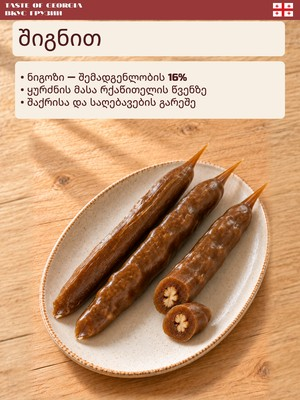
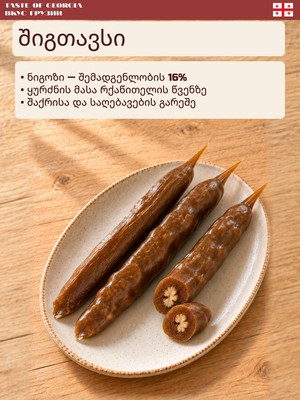
Use approved Georgian filling title on six Taste slides

Changed region(s): [[0.18, 0.06, 0.42, 0.15]]

diff --git a/previews/taste-of-georgia/index.html b/previews/taste-of-georgia/index.html
@@ -1,1 +1,1 @@
-<!doctype html><html lang="ru"><meta charset="utf-8"><meta name="viewport" content="width=device-width,initial-scale=1"><title>Taste of Georgia — RU / KA</title><style>body{margin:24px;background:#f7efe3;color:#4f1d1e;font:18px Georgia,serif}a{color:inherit}.slides{display:flex;gap:12px;overflow-x:auto}img{display:block;border-radius:8px}section{margin:32px 0}h2{font-size:24px}</style><h1>Taste of Georgia</h1><nav><a href="#ru">Русский</a> · <a href="#ka">ქართული · Грузинский</a></nav><p>Слайд «Внутри»: сгенерированная иллюстрация разреза, не фотография реального сечения. Проценты относятся к составу. Новые грузинские строки требуют проверки носителем.</p><h2 id="ru">Русская версия</h2><p>Шесть товаров · 4 слайда.</p><p><a href="ru/photos-links.csv">CSV со ссылками</a> · <a href="ru/contact.jpg">Все слайды JPG</a> · <a href="ru/inside-comparison.jpg">Разрезы JPG</a> · <a href="ru/checks.txt">Проверки каждого слайда</a></p><section><h2>846289106</h2><div class="slides"><a href="../../taste-of-georgia-ru/846289106/slide-1.jpg?v=compact-v1"><img src="ru/846289106/preview-1.jpg?v=compact-v1" width="300" height="400" alt="846289106, слайд 1" loading="lazy"></a><a href="../../taste-of-georgia-ru/846289106/slide-2.jpg?v=compact-v1"><img src="ru/846289106/preview-2.jpg?v=compact-v1" width="300" height="400" alt="846289106, слайд 2" loading="lazy"></a><a href="../../taste-of-georgia-ru/846289106/slide-3.jpg?v=compact-v1"><img src="ru/846289106/preview-3.jpg?v=compact-v1" width="300" height="400" alt="846289106, слайд 3" loading="lazy"></a><a href="../../taste-of-georgia-ru/846289106/slide-4.jpg?v=compact-v1"><img src="ru/846289106/preview-4.jpg?v=compact-v1" width="300" height="400" alt="846289106, слайд 4" loading="lazy"></a></div></section><section><h2>866293107</h2><div class="slides"><a href="../../taste-of-georgia-ru/866293107/slide-1.jpg?v=compact-v1"><img src="ru/866293107/preview-1.jpg?v=compact-v1" width="300" height="400" alt="866293107, слайд 1" loading="lazy"></a><a href="../../taste-of-georgia-ru/866293107/slide-2.jpg?v=compact-v1"><img src="ru/866293107/preview-2.jpg?v=compact-v1" width="300" height="400" alt="866293107, слайд 2" loading="lazy"></a><a href="../../taste-of-georgia-ru/866293107/slide-3.jpg?v=compact-v1"><img src="ru/866293107/preview-3.jpg?v=compact-v1" width="300" height="400" alt="866293107, слайд 3" loading="lazy"></a><a href="../../taste-of-georgia-ru/866293107/slide-4.jpg?v=compact-v1"><img src="ru/866293107/preview-4.jpg?v=compact-v1" width="300" height="400" alt="866293107, слайд 4" loading="lazy"></a></div></section><section><h2>866378086</h2><div class="slides"><a href="../../taste-of-georgia-ru/866378086/slide-1.jpg?v=compact-v1"><img src="ru/866378086/preview-1.jpg?v=compact-v1" width="300" height="400" alt="866378086, слайд 1" loading="lazy"></a><a href="../../taste-of-georgia-ru/866378086/slide-2.jpg?v=compact-v1"><img src="ru/866378086/preview-2.jpg?v=compact-v1" width="300" height="400" alt="866378086, слайд 2" loading="lazy"></a><a href="../../taste-of-georgia-ru/866378086/slide-3.jpg?v=compact-v1"><img src="ru/866378086/preview-3.jpg?v=compact-v1" width="300" height="400" alt="866378086, слайд 3" loading="lazy"></a><a href="../../taste-of-georgia-ru/866378086/slide-4.jpg?v=compact-v1"><img src="ru/866378086/preview-4.jpg?v=compact-v1" width="300" height="400" alt="866378086, слайд 4" loading="lazy"></a></div></section><section><h2>866183920</h2><div class="slides"><a href="../../taste-of-georgia-ru/866183920/slide-1.jpg?v=compact-v1"><img src="ru/866183920/preview-1.jpg?v=compact-v1" width="300" height="400" alt="866183920, слайд 1" loading="lazy"></a><a href="../../taste-of-georgia-ru/866183920/slide-2.jpg?v=compact-v1"><img src="ru/866183920/preview-2.jpg?v=compact-v1" width="300" height="400" alt="866183920, слайд 2" loading="lazy"></a><a href="../../taste-of-georgia-ru/866183920/slide-3.jpg?v=compact-v1"><img src="ru/866183920/preview-3.jpg?v=compact-v1" width="300" height="400" alt="866183920, слайд 3" loading="lazy"></a><a href="../../taste-of-georgia-ru/866183920/slide-4.jpg?v=compact-v1"><img src="ru/866183920/preview-4.jpg?v=compact-v1" width="300" height="400" alt="866183920, слайд 4" loading="lazy"></a></div></section><section><h2>866266850</h2><div class="slides"><a href="../../taste-of-georgia-ru/866266850/slide-1.jpg?v=compact-v1"><img src="ru/866266850/preview-1.jpg?v=compact-v1" width="300" height="400" alt="866266850, слайд 1" loading="lazy"></a><a href="../../taste-of-georgia-ru/866266850/slide-2.jpg?v=compact-v1"><img src="ru/866266850/preview-2.jpg?v=compact-v1" width="300" height="400" alt="866266850, слайд 2" loading="lazy"></a><a href="../../taste-of-georgia-ru/866266850/slide-3.jpg?v=compact-v1"><img src="ru/866266850/preview-3.jpg?v=compact-v1" width="300" height="400" alt="866266850, слайд 3" loading="lazy"></a><a href="../../taste-of-georgia-ru/866266850/slide-4.jpg?v=compact-v1"><img src="ru/866266850/preview-4.jpg?v=compact-v1" width="300" height="400" alt="866266850, слайд 4" loading="lazy"></a></div></section><section><h2>866217539</h2><div class="slides"><a href="../../taste-of-georgia-ru/866217539/slide-1.jpg?v=compact-v1"><img src="ru/866217539/preview-1.jpg?v=compact-v1" width="300" height="400" alt="866217539, слайд 1" loading="lazy"></a><a href="../../taste-of-georgia-ru/866217539/slide-2.jpg?v=compact-v1"><img src="ru/866217539/preview-2.jpg?v=compact-v1" width="300" height="400" alt="866217539, слайд 2" loading="lazy"></a><a href="../../taste-of-georgia-ru/866217539/slide-3.jpg?v=compact-v1"><img src="ru/866217539/preview-3.jpg?v=compact-v1" width="300" height="400" alt="866217539, слайд 3" loading="lazy"></a><a href="../../taste-of-georgia-ru/866217539/slide-4.jpg?v=compact-v1"><img src="ru/866217539/preview-4.jpg?v=compact-v1" width="300" height="400" alt="866217539, слайд 4" loading="lazy"></a></div></section><h2 id="ka">ქართული · Грузинская версия</h2><p>Шесть товаров · 4 слайда.</p><p><a href="photos-links.csv">CSV со ссылками</a> · <a href="contact.jpg">Все слайды JPG</a> · <a href="inside-comparison.jpg">Разрезы JPG</a> · <a href="checks.txt">Проверки каждого слайда</a></p><section><h2>846289106</h2><div class="slides"><a href="../../taste-of-georgia/846289106/slide-1.jpg?v=compact-v1"><img src="846289106/preview-1.jpg?v=compact-v1" width="300" height="400" alt="846289106, слайд 1" loading="lazy"></a><a href="../../taste-of-georgia/846289106/slide-2.jpg?v=compact-v1"><img src="846289106/preview-2.jpg?v=compact-v1" width="300" height="400" alt="846289106, слайд 2" loading="lazy"></a><a href="../../taste-of-georgia/846289106/slide-3.jpg?v=compact-v1"><img src="846289106/preview-3.jpg?v=compact-v1" width="300" height="400" alt="846289106, слайд 3" loading="lazy"></a><a href="../../taste-of-georgia/846289106/slide-4.jpg?v=compact-v1"><img src="846289106/preview-4.jpg?v=compact-v1" width="300" height="400" alt="846289106, слайд 4" loading="lazy"></a></div></section><section><h2>866293107</h2><div class="slides"><a href="../../taste-of-georgia/866293107/slide-1.jpg?v=compact-v1"><img src="866293107/preview-1.jpg?v=compact-v1" width="300" height="400" alt="866293107, слайд 1" loading="lazy"></a><a href="../../taste-of-georgia/866293107/slide-2.jpg?v=compact-v1"><img src="866293107/preview-2.jpg?v=compact-v1" width="300" height="400" alt="866293107, слайд 2" loading="lazy"></a><a href="../../taste-of-georgia/866293107/slide-3.jpg?v=compact-v1"><img src="866293107/preview-3.jpg?v=compact-v1" width="300" height="400" alt="866293107, слайд 3" loading="lazy"></a><a href="../../taste-of-georgia/866293107/slide-4.jpg?v=compact-v1"><img src="866293107/preview-4.jpg?v=compact-v1" width="300" height="400" alt="866293107, слайд 4" loading="lazy"></a></div></section><section><h2>866378086</h2><div class="slides"><a href="../../taste-of-georgia/866378086/slide-1.jpg?v=compact-v1"><img src="866378086/preview-1.jpg?v=compact-v1" width="300" height="400" alt="866378086, слайд 1" loading="lazy"></a><a href="../../taste-of-georgia/866378086/slide-2.jpg?v=compact-v1"><img src="866378086/preview-2.jpg?v=compact-v1" width="300" height="400" alt="866378086, слайд 2" loading="lazy"></a><a href="../../taste-of-georgia/866378086/slide-3.jpg?v=compact-v1"><img src="866378086/preview-3.jpg?v=compact-v1" width="300" height="400" alt="866378086, слайд 3" loading="lazy"></a><a href="../../taste-of-georgia/866378086/slide-4.jpg?v=compact-v1"><img src="866378086/preview-4.jpg?v=compact-v1" width="300" height="400" alt="866378086, слайд 4" loading="lazy"></a></div></section><section><h2>866183920</h2><div class="slides"><a href="../../taste-of-georgia/866183920/slide-1.jpg?v=compact-v1"><img src="866183920/preview-1.jpg?v=compact-v1" width="300" height="400" alt="866183920, слайд 1" loading="lazy"></a><a href="../../taste-of-georgia/866183920/slide-2.jpg?v=compact-v1"><img src="866183920/preview-2.jpg?v=compact-v1" width="300" height="400" alt="866183920, слайд 2" loading="lazy"></a><a href="../../taste-of-georgia/866183920/slide-3.jpg?v=compact-v1"><img src="866183920/preview-3.jpg?v=compact-v1" width="300" height="400" alt="866183920, слайд 3" loading="lazy"></a><a href="../../taste-of-georgia/866183920/slide-4.jpg?v=compact-v1"><img src="866183920/preview-4.jpg?v=compact-v1" width="300" height="400" alt="866183920, слайд 4" loading="lazy"></a></div></section><section><h2>866266850</h2><div class="slides"><a href="../../taste-of-georgia/866266850/slide-1.jpg?v=compact-v1"><img src="866266850/preview-1.jpg?v=compact-v1" width="300" height="400" alt="866266850, слайд 1" loading="lazy"></a><a href="../../taste-of-georgia/866266850/slide-2.jpg?v=compact-v1"><img src="866266850/preview-2.jpg?v=compact-v1" width="300" height="400" alt="866266850, слайд 2" loading="lazy"></a><a href="../../taste-of-georgia/866266850/slide-3.jpg?v=compact-v1"><img src="866266850/preview-3.jpg?v=compact-v1" width="300" height="400" alt="866266850, слайд 3" loading="lazy"></a><a href="../../taste-of-georgia/866266850/slide-4.jpg?v=compact-v1"><img src="866266850/preview-4.jpg?v=compact-v1" width="300" height="400" alt="866266850, слайд 4" loading="lazy"></a></div></section><section><h2>866217539</h2><div class="slides"><a href="../../taste-of-georgia/866217539/slide-1.jpg?v=compact-v1"><img src="866217539/preview-1.jpg?v=compact-v1" width="300" height="400" alt="866217539, слайд 1" loading="lazy"></a><a href="../../taste-of-georgia/866217539/slide-2.jpg?v=compact-v1"><img src="866217539/preview-2.jpg?v=compact-v1" width="300" height="400" alt="866217539, слайд 2" loading="lazy"></a><a href="../../taste-of-georgia/866217539/slide-3.jpg?v=compact-v1"><img src="866217539/preview-3.jpg?v=compact-v1" width="300" height="400" alt="866217539, слайд 3" loading="lazy"></a><a href="../../taste-of-georgia/866217539/slide-4.jpg?v=compact-v1"><img src="866217539/preview-4.jpg?v=compact-v1" width="300" height="400" alt="866217539, слайд 4" loading="lazy"></a></div></section></html>
+<!doctype html><html lang="ru"><meta charset="utf-8"><meta name="viewport" content="width=device-width,initial-scale=1"><title>Taste of Georgia — RU / KA</title><style>body{margin:24px;background:#f7efe3;color:#4f1d1e;font:18px Georgia,serif}a{color:inherit}.slides{display:flex;gap:12px;overflow-x:auto}img{display:block;border-radius:8px}section{margin:32px 0}h2{font-size:24px}</style><h1>Taste of Georgia</h1><nav><a href="#ru">Русский</a> · <a href="#ka">ქართული · Грузинский</a></nav><p>Слайд «Внутри»: сгенерированная иллюстрация разреза, не фотография реального сечения. Проценты относятся к составу. Грузинский перевод одобрен Давидом; заголовок среза — «შიგთავსი».</p><h2 id="ru">Русская версия</h2><p>Шесть товаров · 4 слайда.</p><p><a href="ru/photos-links.csv">CSV со ссылками</a> · <a href="ru/contact.jpg">Все слайды JPG</a> · <a href="ru/inside-comparison.jpg">Разрезы JPG</a> · <a href="ru/checks.txt">Проверки каждого слайда</a></p><section><h2>846289106</h2><div class="slides"><a href="../../taste-of-georgia-ru/846289106/slide-1.jpg?v=compact-v1"><img src="ru/846289106/preview-1.jpg?v=compact-v1" width="300" height="400" alt="846289106, слайд 1" loading="lazy"></a><a href="../../taste-of-georgia-ru/846289106/slide-2.jpg?v=compact-v1"><img src="ru/846289106/preview-2.jpg?v=compact-v1" width="300" height="400" alt="846289106, слайд 2" loading="lazy"></a><a href="../../taste-of-georgia-ru/846289106/slide-3.jpg?v=compact-v1"><img src="ru/846289106/preview-3.jpg?v=compact-v1" width="300" height="400" alt="846289106, слайд 3" loading="lazy"></a><a href="../../taste-of-georgia-ru/846289106/slide-4.jpg?v=compact-v1"><img src="ru/846289106/preview-4.jpg?v=compact-v1" width="300" height="400" alt="846289106, слайд 4" loading="lazy"></a></div></section><section><h2>866293107</h2><div class="slides"><a href="../../taste-of-georgia-ru/866293107/slide-1.jpg?v=compact-v1"><img src="ru/866293107/preview-1.jpg?v=compact-v1" width="300" height="400" alt="866293107, слайд 1" loading="lazy"></a><a href="../../taste-of-georgia-ru/866293107/slide-2.jpg?v=compact-v1"><img src="ru/866293107/preview-2.jpg?v=compact-v1" width="300" height="400" alt="866293107, слайд 2" loading="lazy"></a><a href="../../taste-of-georgia-ru/866293107/slide-3.jpg?v=compact-v1"><img src="ru/866293107/preview-3.jpg?v=compact-v1" width="300" height="400" alt="866293107, слайд 3" loading="lazy"></a><a href="../../taste-of-georgia-ru/866293107/slide-4.jpg?v=compact-v1"><img src="ru/866293107/preview-4.jpg?v=compact-v1" width="300" height="400" alt="866293107, слайд 4" loading="lazy"></a></div></section><section><h2>866378086</h2><div class="slides"><a href="../../taste-of-georgia-ru/866378086/slide-1.jpg?v=compact-v1"><img src="ru/866378086/preview-1.jpg?v=compact-v1" width="300" height="400" alt="866378086, слайд 1" loading="lazy"></a><a href="../../taste-of-georgia-ru/866378086/slide-2.jpg?v=compact-v1"><img src="ru/866378086/preview-2.jpg?v=compact-v1" width="300" height="400" alt="866378086, слайд 2" loading="lazy"></a><a href="../../taste-of-georgia-ru/866378086/slide-3.jpg?v=compact-v1"><img src="ru/866378086/preview-3.jpg?v=compact-v1" width="300" height="400" alt="866378086, слайд 3" loading="lazy"></a><a href="../../taste-of-georgia-ru/866378086/slide-4.jpg?v=compact-v1"><img src="ru/866378086/preview-4.jpg?v=compact-v1" width="300" height="400" alt="866378086, слайд 4" loading="lazy"></a></div></section><section><h2>866183920</h2><div class="slides"><a href="../../taste-of-georgia-ru/866183920/slide-1.jpg?v=compact-v1"><img src="ru/866183920/preview-1.jpg?v=compact-v1" width="300" height="400" alt="866183920, слайд 1" loading="lazy"></a><a href="../../taste-of-georgia-ru/866183920/slide-2.jpg?v=compact-v1"><img src="ru/866183920/preview-2.jpg?v=compact-v1" width="300" height="400" alt="866183920, слайд 2" loading="lazy"></a><a href="../../taste-of-georgia-ru/866183920/slide-3.jpg?v=compact-v1"><img src="ru/866183920/preview-3.jpg?v=compact-v1" width="300" height="400" alt="866183920, слайд 3" loading="lazy"></a><a href="../../taste-of-georgia-ru/866183920/slide-4.jpg?v=compact-v1"><img src="ru/866183920/preview-4.jpg?v=compact-v1" width="300" height="400" alt="866183920, слайд 4" loading="lazy"></a></div></section><section><h2>866266850</h2><div class="slides"><a href="../../taste-of-georgia-ru/866266850/slide-1.jpg?v=compact-v1"><img src="ru/866266850/preview-1.jpg?v=compact-v1" width="300" height="400" alt="866266850, слайд 1" loading="lazy"></a><a href="../../taste-of-georgia-ru/866266850/slide-2.jpg?v=compact-v1"><img src="ru/866266850/preview-2.jpg?v=compact-v1" width="300" height="400" alt="866266850, слайд 2" loading="lazy"></a><a href="../../taste-of-georgia-ru/866266850/slide-3.jpg?v=compact-v1"><img src="ru/866266850/preview-3.jpg?v=compact-v1" width="300" height="400" alt="866266850, слайд 3" loading="lazy"></a><a href="../../taste-of-georgia-ru/866266850/slide-4.jpg?v=compact-v1"><img src="ru/866266850/preview-4.jpg?v=compact-v1" width="300" height="400" alt="866266850, слайд 4" loading="lazy"></a></div></section><section><h2>866217539</h2><div class="slides"><a href="../../taste-of-georgia-ru/866217539/slide-1.jpg?v=compact-v1"><img src="ru/866217539/preview-1.jpg?v=compact-v1" width="300" height="400" alt="866217539, слайд 1" loading="lazy"></a><a href="../../taste-of-georgia-ru/866217539/slide-2.jpg?v=compact-v1"><img src="ru/866217539/preview-2.jpg?v=compact-v1" width="300" height="400" alt="866217539, слайд 2" loading="lazy"></a><a href="../../taste-of-georgia-ru/866217539/slide-3.jpg?v=compact-v1"><img src="ru/866217539/preview-3.jpg?v=compact-v1" width="300" height="400" alt="866217539, слайд 3" loading="lazy"></a><a href="../../taste-of-georgia-ru/866217539/slide-4.jpg?v=compact-v1"><img src="ru/866217539/preview-4.jpg?v=compact-v1" width="300" height="400" alt="866217539, слайд 4" loading="lazy"></a></div></section><h2 id="ka">ქართული · Грузинская версия</h2><p>Шесть товаров · 4 слайда.</p><p><a href="photos-links.csv">CSV со ссылками</a> · <a href="contact.jpg">Все слайды JPG</a> · <a href="inside-comparison.jpg">Разрезы JPG</a> · <a href="checks.txt">Проверки каждого слайда</a></p><section><h2>846289106</h2><div class="slides"><a href="../../taste-of-georgia/846289106/slide-1.jpg?v=compact-ka-title-v1"><img src="846289106/preview-1.jpg?v=compact-ka-title-v1" width="300" height="400" alt="846289106, слайд 1" loading="lazy"></a><a href="../../taste-of-georgia/846289106/slide-2.jpg?v=compact-ka-title-v1"><img src="846289106/preview-2.jpg?v=compact-ka-title-v1" width="300" height="400" alt="846289106, слайд 2" loading="lazy"></a><a href="../../taste-of-georgia/846289106/slide-3.jpg?v=compact-ka-title-v1"><img src="846289106/preview-3.jpg?v=compact-ka-title-v1" width="300" height="400" alt="846289106, слайд 3" loading="lazy"></a><a href="../../taste-of-georgia/846289106/slide-4.jpg?v=compact-ka-title-v1"><img src="846289106/preview-4.jpg?v=compact-ka-title-v1" width="300" height="400" alt="846289106, слайд 4" loading="lazy"></a></div></section><section><h2>866293107</h2><div class="slides"><a href="../../taste-of-georgia/866293107/slide-1.jpg?v=compact-ka-title-v1"><img src="866293107/preview-1.jpg?v=compact-ka-title-v1" width="300" height="400" alt="866293107, слайд 1" loading="lazy"></a><a href="../../taste-of-georgia/866293107/slide-2.jpg?v=compact-ka-title-v1"><img src="866293107/preview-2.jpg?v=compact-ka-title-v1" width="300" height="400" alt="866293107, слайд 2" loading="lazy"></a><a href="../../taste-of-georgia/866293107/slide-3.jpg?v=compact-ka-title-v1"><img src="866293107/preview-3.jpg?v=compact-ka-title-v1" width="300" height="400" alt="866293107, слайд 3" loading="lazy"></a><a href="../../taste-of-georgia/866293107/slide-4.jpg?v=compact-ka-title-v1"><img src="866293107/preview-4.jpg?v=compact-ka-title-v1" width="300" height="400" alt="866293107, слайд 4" loading="lazy"></a></div></section><section><h2>866378086</h2><div class="slides"><a href="../../taste-of-georgia/866378086/slide-1.jpg?v=compact-ka-title-v1"><img src="866378086/preview-1.jpg?v=compact-ka-title-v1" width="300" height="400" alt="866378086, слайд 1" loading="lazy"></a><a href="../../taste-of-georgia/866378086/slide-2.jpg?v=compact-ka-title-v1"><img src="866378086/preview-2.jpg?v=compact-ka-title-v1" width="300" height="400" alt="866378086, слайд 2" loading="lazy"></a><a href="../../taste-of-georgia/866378086/slide-3.jpg?v=compact-ka-title-v1"><img src="866378086/preview-3.jpg?v=compact-ka-title-v1" width="300" height="400" alt="866378086, слайд 3" loading="lazy"></a><a href="../../taste-of-georgia/866378086/slide-4.jpg?v=compact-ka-title-v1"><img src="866378086/preview-4.jpg?v=compact-ka-title-v1" width="300" height="400" alt="866378086, слайд 4" loading="lazy"></a></div></section><section><h2>866183920</h2><div class="slides"><a href="../../taste-of-georgia/866183920/slide-1.jpg?v=compact-ka-title-v1"><img src="866183920/preview-1.jpg?v=compact-ka-title-v1" width="300" height="400" alt="866183920, слайд 1" loading="lazy"></a><a href="../../taste-of-georgia/866183920/slide-2.jpg?v=compact-ka-title-v1"><img src="866183920/preview-2.jpg?v=compact-ka-title-v1" width="300" height="400" alt="866183920, слайд 2" loading="lazy"></a><a href="../../taste-of-georgia/866183920/slide-3.jpg?v=compact-ka-title-v1"><img src="866183920/preview-3.jpg?v=compact-ka-title-v1" width="300" height="400" alt="866183920, слайд 3" loading="lazy"></a><a href="../../taste-of-georgia/866183920/slide-4.jpg?v=compact-ka-title-v1"><img src="866183920/preview-4.jpg?v=compact-ka-title-v1" width="300" height="400" alt="866183920, слайд 4" loading="lazy"></a></div></section><section><h2>866266850</h2><div class="slides"><a href="../../taste-of-georgia/866266850/slide-1.jpg?v=compact-ka-title-v1"><img src="866266850/preview-1.jpg?v=compact-ka-title-v1" width="300" height="400" alt="866266850, слайд 1" loading="lazy"></a><a href="../../taste-of-georgia/866266850/slide-2.jpg?v=compact-ka-title-v1"><img src="866266850/preview-2.jpg?v=compact-ka-title-v1" width="300" height="400" alt="866266850, слайд 2" loading="lazy"></a><a href="../../taste-of-georgia/866266850/slide-3.jpg?v=compact-ka-title-v1"><img src="866266850/preview-3.jpg?v=compact-ka-title-v1" width="300" height="400" alt="866266850, слайд 3" loading="lazy"></a><a href="../../taste-of-georgia/866266850/slide-4.jpg?v=compact-ka-title-v1"><img src="866266850/preview-4.jpg?v=compact-ka-title-v1" width="300" height="400" alt="866266850, слайд 4" loading="lazy"></a></div></section><section><h2>866217539</h2><div class="slides"><a href="../../taste-of-georgia/866217539/slide-1.jpg?v=compact-ka-title-v1"><img src="866217539/preview-1.jpg?v=compact-ka-title-v1" width="300" height="400" alt="866217539, слайд 1" loading="lazy"></a><a href="../../taste-of-georgia/866217539/slide-2.jpg?v=compact-ka-title-v1"><img src="866217539/preview-2.jpg?v=compact-ka-title-v1" width="300" height="400" alt="866217539, слайд 2" loading="lazy"></a><a href="../../taste-of-georgia/866217539/slide-3.jpg?v=compact-ka-title-v1"><img src="866217539/preview-3.jpg?v=compact-ka-title-v1" width="300" height="400" alt="866217539, слайд 3" loading="lazy"></a><a href="../../taste-of-georgia/866217539/slide-4.jpg?v=compact-ka-title-v1"><img src="866217539/preview-4.jpg?v=compact-ka-title-v1" width="300" height="400" alt="866217539, слайд 4" loading="lazy"></a></div></section></html>

diff --git a/previews/taste-of-georgia/ru/index.html b/previews/taste-of-georgia/ru/index.html
@@ -1,1 +1,1 @@
-<!doctype html><html lang="ru"><meta charset="utf-8"><meta name="viewport" content="width=device-width,initial-scale=1"><title>Taste of Georgia — русский</title><style>body{margin:24px;background:#f7efe3;color:#4f1d1e;font:18px Georgia,serif}a{color:inherit}.slides{display:flex;gap:12px;overflow-x:auto}img{display:block;border-radius:8px}section{margin:32px 0}h2{font-size:24px}</style><h1>Taste of Georgia — русский</h1><p>Слайд «Внутри»: сгенерированная иллюстрация разреза, не фотография реального сечения. Проценты относятся к составу. Новые грузинские строки требуют проверки носителем.</p><h2 id="ru">Русская версия</h2><p>Шесть товаров · 4 слайда.</p><p><a href="photos-links.csv">CSV со ссылками</a> · <a href="contact.jpg">Все слайды JPG</a> · <a href="inside-comparison.jpg">Разрезы JPG</a> · <a href="checks.txt">Проверки каждого слайда</a></p><p><a href="../#ka">Грузинская версия</a></p><section><h2>846289106</h2><div class="slides"><a href="../../../taste-of-georgia-ru/846289106/slide-1.jpg?v=compact-v1"><img src="846289106/preview-1.jpg?v=compact-v1" width="300" height="400" alt="846289106, слайд 1" loading="lazy"></a><a href="../../../taste-of-georgia-ru/846289106/slide-2.jpg?v=compact-v1"><img src="846289106/preview-2.jpg?v=compact-v1" width="300" height="400" alt="846289106, слайд 2" loading="lazy"></a><a href="../../../taste-of-georgia-ru/846289106/slide-3.jpg?v=compact-v1"><img src="846289106/preview-3.jpg?v=compact-v1" width="300" height="400" alt="846289106, слайд 3" loading="lazy"></a><a href="../../../taste-of-georgia-ru/846289106/slide-4.jpg?v=compact-v1"><img src="846289106/preview-4.jpg?v=compact-v1" width="300" height="400" alt="846289106, слайд 4" loading="lazy"></a></div></section><section><h2>866293107</h2><div class="slides"><a href="../../../taste-of-georgia-ru/866293107/slide-1.jpg?v=compact-v1"><img src="866293107/preview-1.jpg?v=compact-v1" width="300" height="400" alt="866293107, слайд 1" loading="lazy"></a><a href="../../../taste-of-georgia-ru/866293107/slide-2.jpg?v=compact-v1"><img src="866293107/preview-2.jpg?v=compact-v1" width="300" height="400" alt="866293107, слайд 2" loading="lazy"></a><a href="../../../taste-of-georgia-ru/866293107/slide-3.jpg?v=compact-v1"><img src="866293107/preview-3.jpg?v=compact-v1" width="300" height="400" alt="866293107, слайд 3" loading="lazy"></a><a href="../../../taste-of-georgia-ru/866293107/slide-4.jpg?v=compact-v1"><img src="866293107/preview-4.jpg?v=compact-v1" width="300" height="400" alt="866293107, слайд 4" loading="lazy"></a></div></section><section><h2>866378086</h2><div class="slides"><a href="../../../taste-of-georgia-ru/866378086/slide-1.jpg?v=compact-v1"><img src="866378086/preview-1.jpg?v=compact-v1" width="300" height="400" alt="866378086, слайд 1" loading="lazy"></a><a href="../../../taste-of-georgia-ru/866378086/slide-2.jpg?v=compact-v1"><img src="866378086/preview-2.jpg?v=compact-v1" width="300" height="400" alt="866378086, слайд 2" loading="lazy"></a><a href="../../../taste-of-georgia-ru/866378086/slide-3.jpg?v=compact-v1"><img src="866378086/preview-3.jpg?v=compact-v1" width="300" height="400" alt="866378086, слайд 3" loading="lazy"></a><a href="../../../taste-of-georgia-ru/866378086/slide-4.jpg?v=compact-v1"><img src="866378086/preview-4.jpg?v=compact-v1" width="300" height="400" alt="866378086, слайд 4" loading="lazy"></a></div></section><section><h2>866183920</h2><div class="slides"><a href="../../../taste-of-georgia-ru/866183920/slide-1.jpg?v=compact-v1"><img src="866183920/preview-1.jpg?v=compact-v1" width="300" height="400" alt="866183920, слайд 1" loading="lazy"></a><a href="../../../taste-of-georgia-ru/866183920/slide-2.jpg?v=compact-v1"><img src="866183920/preview-2.jpg?v=compact-v1" width="300" height="400" alt="866183920, слайд 2" loading="lazy"></a><a href="../../../taste-of-georgia-ru/866183920/slide-3.jpg?v=compact-v1"><img src="866183920/preview-3.jpg?v=compact-v1" width="300" height="400" alt="866183920, слайд 3" loading="lazy"></a><a href="../../../taste-of-georgia-ru/866183920/slide-4.jpg?v=compact-v1"><img src="866183920/preview-4.jpg?v=compact-v1" width="300" height="400" alt="866183920, слайд 4" loading="lazy"></a></div></section><section><h2>866266850</h2><div class="slides"><a href="../../../taste-of-georgia-ru/866266850/slide-1.jpg?v=compact-v1"><img src="866266850/preview-1.jpg?v=compact-v1" width="300" height="400" alt="866266850, слайд 1" loading="lazy"></a><a href="../../../taste-of-georgia-ru/866266850/slide-2.jpg?v=compact-v1"><img src="866266850/preview-2.jpg?v=compact-v1" width="300" height="400" alt="866266850, слайд 2" loading="lazy"></a><a href="../../../taste-of-georgia-ru/866266850/slide-3.jpg?v=compact-v1"><img src="866266850/preview-3.jpg?v=compact-v1" width="300" height="400" alt="866266850, слайд 3" loading="lazy"></a><a href="../../../taste-of-georgia-ru/866266850/slide-4.jpg?v=compact-v1"><img src="866266850/preview-4.jpg?v=compact-v1" width="300" height="400" alt="866266850, слайд 4" loading="lazy"></a></div></section><section><h2>866217539</h2><div class="slides"><a href="../../../taste-of-georgia-ru/866217539/slide-1.jpg?v=compact-v1"><img src="866217539/preview-1.jpg?v=compact-v1" width="300" height="400" alt="866217539, слайд 1" loading="lazy"></a><a href="../../../taste-of-georgia-ru/866217539/slide-2.jpg?v=compact-v1"><img src="866217539/preview-2.jpg?v=compact-v1" width="300" height="400" alt="866217539, слайд 2" loading="lazy"></a><a href="../../../taste-of-georgia-ru/866217539/slide-3.jpg?v=compact-v1"><img src="866217539/preview-3.jpg?v=compact-v1" width="300" height="400" alt="866217539, слайд 3" loading="lazy"></a><a href="../../../taste-of-georgia-ru/866217539/slide-4.jpg?v=compact-v1"><img src="866217539/preview-4.jpg?v=compact-v1" width="300" height="400" alt="866217539, слайд 4" loading="lazy"></a></div></section></html>
+<!doctype html><html lang="ru"><meta charset="utf-8"><meta name="viewport" content="width=device-width,initial-scale=1"><title>Taste of Georgia — русский</title><style>body{margin:24px;background:#f7efe3;color:#4f1d1e;font:18px Georgia,serif}a{color:inherit}.slides{display:flex;gap:12px;overflow-x:auto}img{display:block;border-radius:8px}section{margin:32px 0}h2{font-size:24px}</style><h1>Taste of Georgia — русский</h1><p>Слайд «Внутри»: сгенерированная иллюстрация разреза, не фотография реального сечения. Проценты относятся к составу. Грузинский перевод одобрен Давидом; заголовок среза — «შიგთავსი».</p><h2 id="ru">Русская версия</h2><p>Шесть товаров · 4 слайда.</p><p><a href="photos-links.csv">CSV со ссылками</a> · <a href="contact.jpg">Все слайды JPG</a> · <a href="inside-comparison.jpg">Разрезы JPG</a> · <a href="checks.txt">Проверки каждого слайда</a></p><p><a href="../#ka">Грузинская версия</a></p><section><h2>846289106</h2><div class="slides"><a href="../../../taste-of-georgia-ru/846289106/slide-1.jpg?v=compact-v1"><img src="846289106/preview-1.jpg?v=compact-v1" width="300" height="400" alt="846289106, слайд 1" loading="lazy"></a><a href="../../../taste-of-georgia-ru/846289106/slide-2.jpg?v=compact-v1"><img src="846289106/preview-2.jpg?v=compact-v1" width="300" height="400" alt="846289106, слайд 2" loading="lazy"></a><a href="../../../taste-of-georgia-ru/846289106/slide-3.jpg?v=compact-v1"><img src="846289106/preview-3.jpg?v=compact-v1" width="300" height="400" alt="846289106, слайд 3" loading="lazy"></a><a href="../../../taste-of-georgia-ru/846289106/slide-4.jpg?v=compact-v1"><img src="846289106/preview-4.jpg?v=compact-v1" width="300" height="400" alt="846289106, слайд 4" loading="lazy"></a></div></section><section><h2>866293107</h2><div class="slides"><a href="../../../taste-of-georgia-ru/866293107/slide-1.jpg?v=compact-v1"><img src="866293107/preview-1.jpg?v=compact-v1" width="300" height="400" alt="866293107, слайд 1" loading="lazy"></a><a href="../../../taste-of-georgia-ru/866293107/slide-2.jpg?v=compact-v1"><img src="866293107/preview-2.jpg?v=compact-v1" width="300" height="400" alt="866293107, слайд 2" loading="lazy"></a><a href="../../../taste-of-georgia-ru/866293107/slide-3.jpg?v=compact-v1"><img src="866293107/preview-3.jpg?v=compact-v1" width="300" height="400" alt="866293107, слайд 3" loading="lazy"></a><a href="../../../taste-of-georgia-ru/866293107/slide-4.jpg?v=compact-v1"><img src="866293107/preview-4.jpg?v=compact-v1" width="300" height="400" alt="866293107, слайд 4" loading="lazy"></a></div></section><section><h2>866378086</h2><div class="slides"><a href="../../../taste-of-georgia-ru/866378086/slide-1.jpg?v=compact-v1"><img src="866378086/preview-1.jpg?v=compact-v1" width="300" height="400" alt="866378086, слайд 1" loading="lazy"></a><a href="../../../taste-of-georgia-ru/866378086/slide-2.jpg?v=compact-v1"><img src="866378086/preview-2.jpg?v=compact-v1" width="300" height="400" alt="866378086, слайд 2" loading="lazy"></a><a href="../../../taste-of-georgia-ru/866378086/slide-3.jpg?v=compact-v1"><img src="866378086/preview-3.jpg?v=compact-v1" width="300" height="400" alt="866378086, слайд 3" loading="lazy"></a><a href="../../../taste-of-georgia-ru/866378086/slide-4.jpg?v=compact-v1"><img src="866378086/preview-4.jpg?v=compact-v1" width="300" height="400" alt="866378086, слайд 4" loading="lazy"></a></div></section><section><h2>866183920</h2><div class="slides"><a href="../../../taste-of-georgia-ru/866183920/slide-1.jpg?v=compact-v1"><img src="866183920/preview-1.jpg?v=compact-v1" width="300" height="400" alt="866183920, слайд 1" loading="lazy"></a><a href="../../../taste-of-georgia-ru/866183920/slide-2.jpg?v=compact-v1"><img src="866183920/preview-2.jpg?v=compact-v1" width="300" height="400" alt="866183920, слайд 2" loading="lazy"></a><a href="../../../taste-of-georgia-ru/866183920/slide-3.jpg?v=compact-v1"><img src="866183920/preview-3.jpg?v=compact-v1" width="300" height="400" alt="866183920, слайд 3" loading="lazy"></a><a href="../../../taste-of-georgia-ru/866183920/slide-4.jpg?v=compact-v1"><img src="866183920/preview-4.jpg?v=compact-v1" width="300" height="400" alt="866183920, слайд 4" loading="lazy"></a></div></section><section><h2>866266850</h2><div class="slides"><a href="../../../taste-of-georgia-ru/866266850/slide-1.jpg?v=compact-v1"><img src="866266850/preview-1.jpg?v=compact-v1" width="300" height="400" alt="866266850, слайд 1" loading="lazy"></a><a href="../../../taste-of-georgia-ru/866266850/slide-2.jpg?v=compact-v1"><img src="866266850/preview-2.jpg?v=compact-v1" width="300" height="400" alt="866266850, слайд 2" loading="lazy"></a><a href="../../../taste-of-georgia-ru/866266850/slide-3.jpg?v=compact-v1"><img src="866266850/preview-3.jpg?v=compact-v1" width="300" height="400" alt="866266850, слайд 3" loading="lazy"></a><a href="../../../taste-of-georgia-ru/866266850/slide-4.jpg?v=compact-v1"><img src="866266850/preview-4.jpg?v=compact-v1" width="300" height="400" alt="866266850, слайд 4" loading="lazy"></a></div></section><section><h2>866217539</h2><div class="slides"><a href="../../../taste-of-georgia-ru/866217539/slide-1.jpg?v=compact-v1"><img src="866217539/preview-1.jpg?v=compact-v1" width="300" height="400" alt="866217539, слайд 1" loading="lazy"></a><a href="../../../taste-of-georgia-ru/866217539/slide-2.jpg?v=compact-v1"><img src="866217539/preview-2.jpg?v=compact-v1" width="300" height="400" alt="866217539, слайд 2" loading="lazy"></a><a href="../../../taste-of-georgia-ru/866217539/slide-3.jpg?v=compact-v1"><img src="866217539/preview-3.jpg?v=compact-v1" width="300" height="400" alt="866217539, слайд 3" loading="lazy"></a><a href="../../../taste-of-georgia-ru/866217539/slide-4.jpg?v=compact-v1"><img src="866217539/preview-4.jpg?v=compact-v1" width="300" height="400" alt="866217539, слайд 4" loading="lazy"></a></div></section></html>
